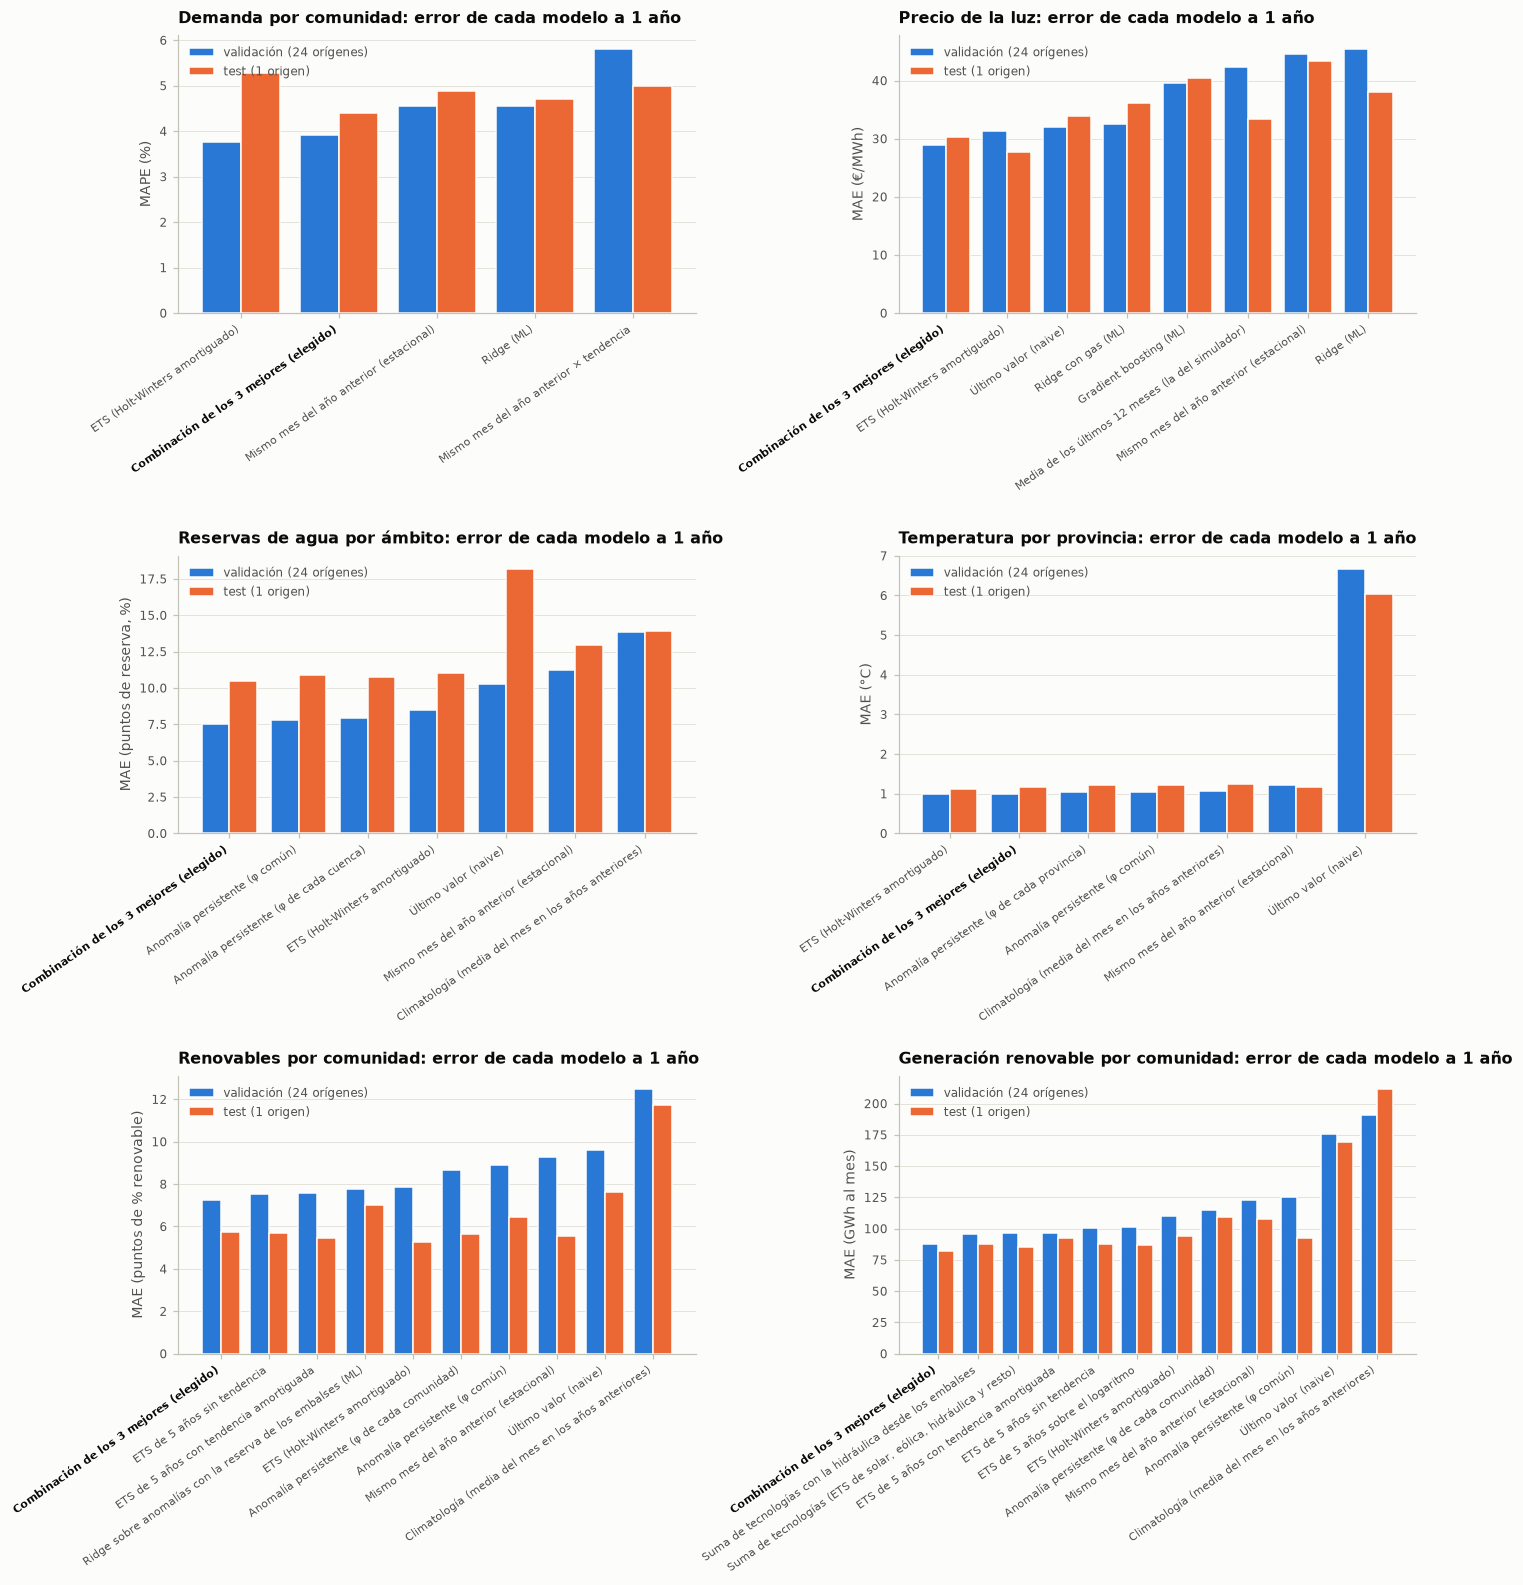
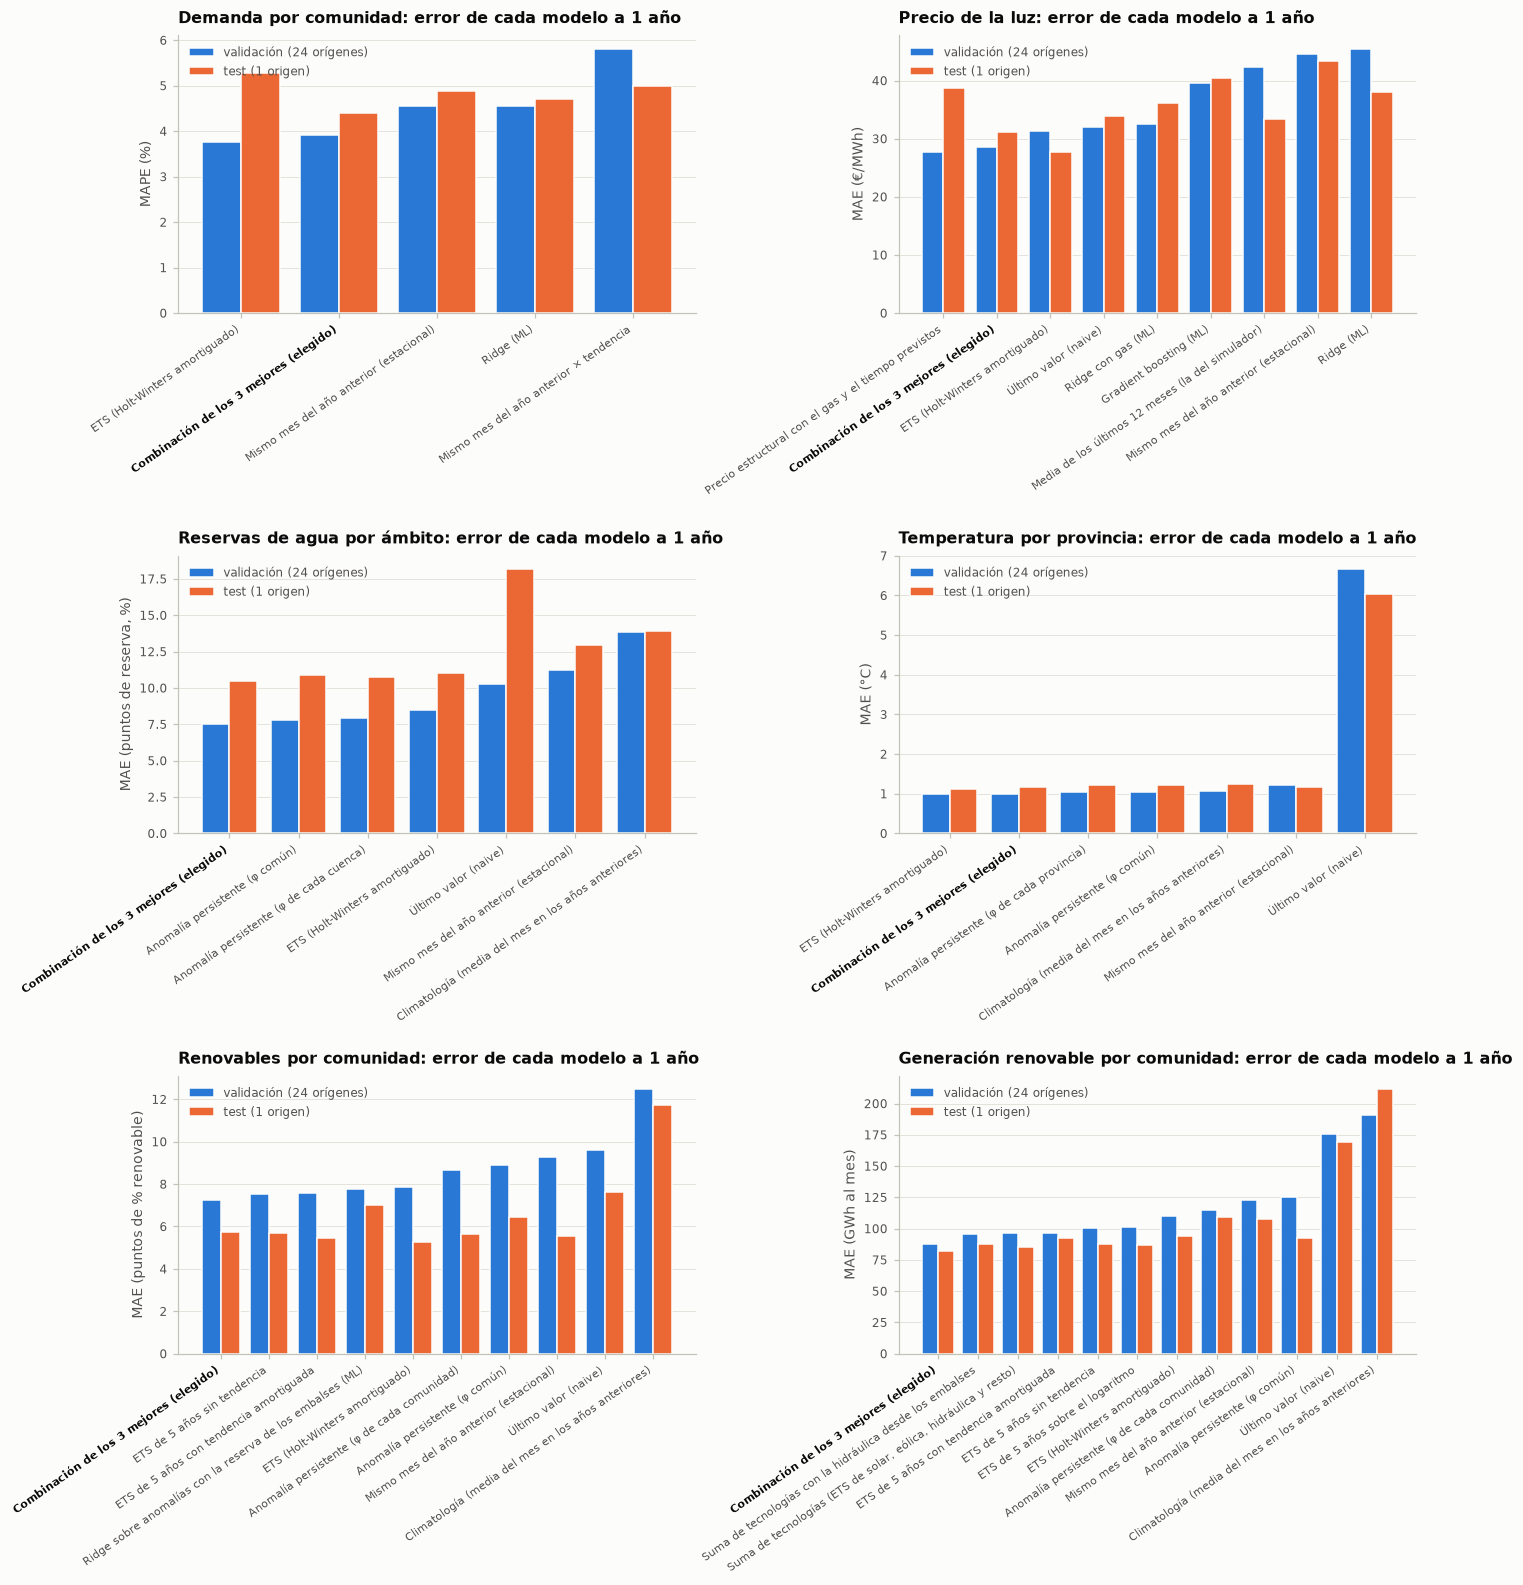
docs(analisis): informe y figuras con los modelos del gas y del tiempo

Changed region(s): [[0.5246, 0.0309, 0.9258, 0.2782], [0.6789, 0.2782, 0.7098, 0.3091], [0.4938, 0.2782, 0.5246, 0.3091]]

diff --git a/docs/analisis/previsiones_1_anio.md b/docs/analisis/previsiones_1_anio.md
@@ -28,12 +28,16 @@ indica una fuga de información. El control se ejecuta en cada `python -m cpd.mo
 | Generación renovable por comunidad: total de 12 meses | 92,3 % | 93,5 % | 100 − WAPE del total anual | cumple (objetivo 90 %) |
 | Operación del CPD a 1 año: consumo | 99,7 % | — | 100 − WAPE del total anual (22 orígenes comunes) | cumple (objetivo 90 %) |
 | Operación del CPD a 1 año: emisiones | 90,6 % | — | 100 − WAPE del total anual (22 orígenes comunes) | cumple (objetivo 90 %) |
-| Precio de la luz a 1 año | 59,0 % | 62,4 % | 100 − WAPE | no cumple (< 85 %) |
+| Gas natural (MIBGAS) a 1 año · entrada del precio, inestable | 70,4 % | 52,3 % | 100 − WAPE | no cumple (< 85 %) |
+| Eólica de España (tiempo) a 1 año · entrada del precio, inestable | 86,6 % | 83,7 % | 100 − WAPE | no cumple (< 85 %) |
+| Solar de España (tiempo) a 1 año · entrada del precio, inestable | 90,9 % | 90,9 % | 100 − WAPE | cumple (objetivo 90 %) |
+| Hidráulica de España (tiempo) a 1 año · entrada del precio, inestable | 72,9 % | 85,5 % | 100 − WAPE | no cumple (< 85 %) |
+| Precio de la luz a 1 año | 59,7 % | 61,4 % | 100 − WAPE | no cumple (< 85 %) |
 | Demanda nacional a 10 años | 97,3 % | — | 100 − WAPE (backtesting 2012-2025) | cumple (objetivo 90 %) |
 | Probabilidad de CPD (prob_cpd) | 90,4 % | — | accuracy fuera de pliegue | cumple (objetivo 90 %) |
 | Riesgo sísmico: algún M ≥ 3 el año siguiente | 74,2 % | 73,1 % | accuracy (validación 2018-2024, test 2025) | no cumple (< 85 %) |
 
-**No cumplen:** Renovables por comunidad a 1 año (mes a mes) (no cumple (< 85 %)); Precio de la luz a 1 año (no cumple (< 85 %)); Riesgo sísmico: algún M ≥ 3 el año siguiente (no cumple (< 85 %)). Sus previsiones se enseñan solo como escenario, con el aviso, y no se usan como dato en el simulador.
+**No cumplen:** Renovables por comunidad a 1 año (mes a mes) (no cumple (< 85 %)); Gas natural (MIBGAS) a 1 año · entrada del precio, inestable (no cumple (< 85 %)); Eólica de España (tiempo) a 1 año · entrada del precio, inestable (no cumple (< 85 %)); Hidráulica de España (tiempo) a 1 año · entrada del precio, inestable (no cumple (< 85 %)); Precio de la luz a 1 año (no cumple (< 85 %)); Riesgo sísmico: algún M ≥ 3 el año siguiente (no cumple (< 85 %)). Sus previsiones se enseñan solo como escenario, con el aviso, y no se usan como dato en el simulador.
 
 
 ## Cómo se ha buscado el menor error
@@ -66,10 +70,11 @@ simulador (gris). Abajo, en su propio eje, el gas de MIBGAS (mercado diario y fu
 
 | Modelo | Validación (€/MWh) | Test (€/MWh) |
 |---|---|---|
-| Combinación de los 3 mejores **(elegido)** | 29,0 | 30,3 |
+| Precio estructural con el gas y el tiempo previstos (en la combinación) | 27,6 | 38,8 |
+| Combinación de los 3 mejores **(elegido)** | 28,5 | 31,1 |
 | ETS (Holt-Winters amortiguado) (en la combinación) | 31,2 | 27,8 |
 | Último valor (naive) (en la combinación) | 32,0 | 34,0 |
-| Ridge con gas (ML) (en la combinación) | 32,5 | 36,2 |
+| Ridge con gas (ML) | 32,5 | 36,2 |
 | Gradient boosting (ML) | 39,6 | 40,5 |
 | Media de los últimos 12 meses (la del simulador) | 42,4 | 33,4 |
 | Mismo mes del año anterior (estacional) | 44,5 | 43,4 |
@@ -78,29 +83,60 @@ simulador (gris). Abajo, en su propio eje, el gas de MIBGAS (mercado diario y fu
 Validación: orígenes 2022-11 a 2024-10 (24 orígenes), meses 2022-12 a 2025-10. Test: meses 2025-11 a 2026-10.
 
 **Resultado.** Modelo elegido: **Combinación de los 3 mejores**
-(ETS (Holt-Winters amortiguado), Último valor (naive), Ridge con gas (ML)). Error medio a 1 año: 29,0 €/MWh en
-validación y 30,3 €/MWh en test, frente a 42,4 y
+(Precio estructural con el gas y el tiempo previstos, ETS (Holt-Winters amortiguado), Último valor (naive)). Error medio a 1 año: 28,5 €/MWh en
+validación y 31,1 €/MWh en test, frente a 42,4 y
 33,4 €/MWh de la media de 12 meses que usa el simulador.
 
-**Previsión** desde 2026-10: media de **153 €/MWh** para los próximos 12 meses (rango
-110-342 €/MWh, cuantiles 10-90 % del error de la media anual en validación), frente a
+**Previsión** desde 2026-10: media de **152 €/MWh** para los próximos 12 meses (rango
+102-270 €/MWh, cuantiles 10-90 % del error de la media anual en validación), frente a
 80 €/MWh de media del último año y 167 €/MWh en 2026-10. El futuro de gas a
-1 año cotiza a 68,8 €/MWh. Mes a mes (€/MWh): 2026-11: 171, 2026-12: 165, 2027-01: 155, 2027-02: 137, 2027-03: 130, 2027-04: 124, 2027-05: 129, 2027-06: 147, 2027-07: 158, 2027-08: 168, 2027-09: 176, 2027-10: 180.
+1 año cotiza a 68,8 €/MWh. Mes a mes (€/MWh): 2026-11: 162, 2026-12: 164, 2027-01: 160, 2027-02: 142, 2027-03: 137, 2027-04: 130, 2027-05: 134, 2027-06: 152, 2027-07: 157, 2027-08: 159, 2027-09: 161, 2027-10: 164.
 
 ![Backtesting del precio](../../docs/figuras/previsiones/05_backtesting_precio.png)
 
 **Figura 2.** Las 24 previsiones a 1 año de validación frente al precio real: se ve cuándo acierta y cuándo no
 (la previsión tarda en reaccionar a los cambios bruscos).
 
-**¿Por qué no llega al 85 %?** El acierto cae con la antelación: 74 % a 1 mes y
-54 % a 12 meses (modelo elegido, validación). Ni el mejor modelo a 1 mes vista
+**¿Por qué no llega al 85 %?** El acierto cae con la antelación: 75 % a 1 mes y
+52 % a 12 meses (modelo elegido, validación). Ni el mejor modelo a 1 mes vista
 —ETS (Holt-Winters amortiguado)— pasa del 77 %. En los meses de validación el precio real fue de
 14 €/MWh (04/2024) a 133 €/MWh (02/2023): el error medio del modelo elegido,
-29 €/MWh, es pequeño en un mes caro y enorme en uno barato. Llegar al 85 % exigiría escoger un periodo
+28 €/MWh, es pequeño en un mes caro y enorme en uno barato. Llegar al 85 % exigiría escoger un periodo
 de evaluación tranquilo o usar información que no se sabía en el origen, que es lo que el requisito (D8) quiere evitar.
 Por eso esta previsión se enseña como **escenario orientativo**, con aviso, y el simulador sigue usando la media de
 12 meses como supuesto (D7). Los futuros de electricidad (OMIP) podrían mejorar los primeros meses, pero no se han
 integrado y no aseguran el 85 % (mejora posible; recomendación, no viene de clase).
+
+
+## Gas y tiempo: modelos añadidos para el precio de la luz (inestables)
+
+El precio de la luz era el modelo más difícil: se quedaba en un 59-62 % de acierto. Como el precio lo marca casi
+siempre la central de gas de ciclo combinado y baja cuando hay mucho viento, sol o agua, se añadieron (18/11/2026)
+los **modelos del gas** (MIBGAS: último valor, ETS y los futuros del gas) y **del tiempo**, a través de la generación
+eólica, solar e hidráulica de España (REData; la hidráulica, también con la reserva de los embalses). Con ellos se
+construye un **precio estructural**: log(precio) = f(log(gas), cuotas de eólica, solar, hidráulica, nuclear, ciclo
+combinado y carbón, ciclo combinado × gas, mes), ajustado con los meses reales y alimentado con las previsiones.
+
+**Son inestables:** el gas y el tiempo de dentro de un año no se pueden saber, y sus aciertos cambian mucho entre
+validación y test. Se usan solo como entradas del precio, no como dato del simulador.
+
+![Gas y tiempo](../../docs/figuras/previsiones/15_gas_y_tiempo.png)
+
+**Figura 2b.** Gas y generación eólica, solar e hidráulica de España: últimos 3 años y previsión a 1 año, con su
+acierto (validación / test).
+
+| Modelo | Elegido | Acierto validación | Acierto test |
+|---|---|---|---|
+| Gas natural (MIBGAS) | ETS (Holt-Winters amortiguado) | 70,4 % | 52,3 % |
+| Eólica de España | Combinación de los 3 mejores | 86,6 % | 83,7 % |
+| Solar de España | ETS de 5 años sobre el logaritmo | 90,9 % | 90,9 % |
+| Hidráulica de España | Combinación de los 3 mejores | 72,9 % | 85,5 % |
+
+**Resultado para la luz.** Como candidato del precio, el **precio estructural** acierta un 60,9 % en validación y un 51,8 % en test y entra en la combinación. El acierto del precio queda en 59,7 % en validación y
+61,4 % en test. **Diagnóstico:** aun con el gas y la generación **reales** de cada mes (sin previsión), el
+precio solo se explica en un 78,9 %: faltan datos que no son abiertos o no son mensuales, como el precio del CO2 (la
+fuente de la bolsa EEX es de pago), la demanda hora a hora y las interconexiones. Por eso el precio sigue como
+orientativo.
 
 ## Demanda eléctrica por comunidad autónoma
 
